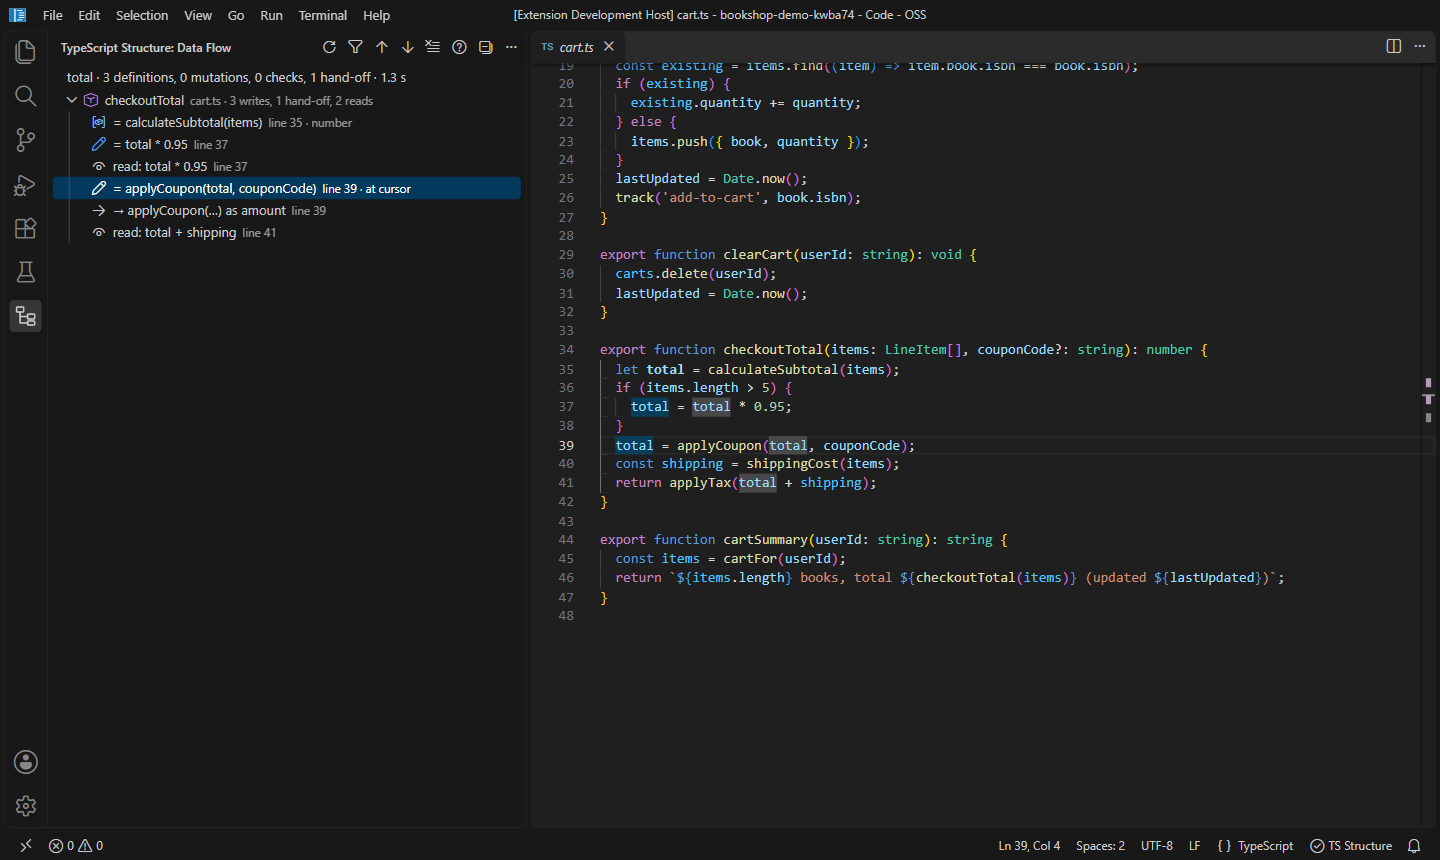
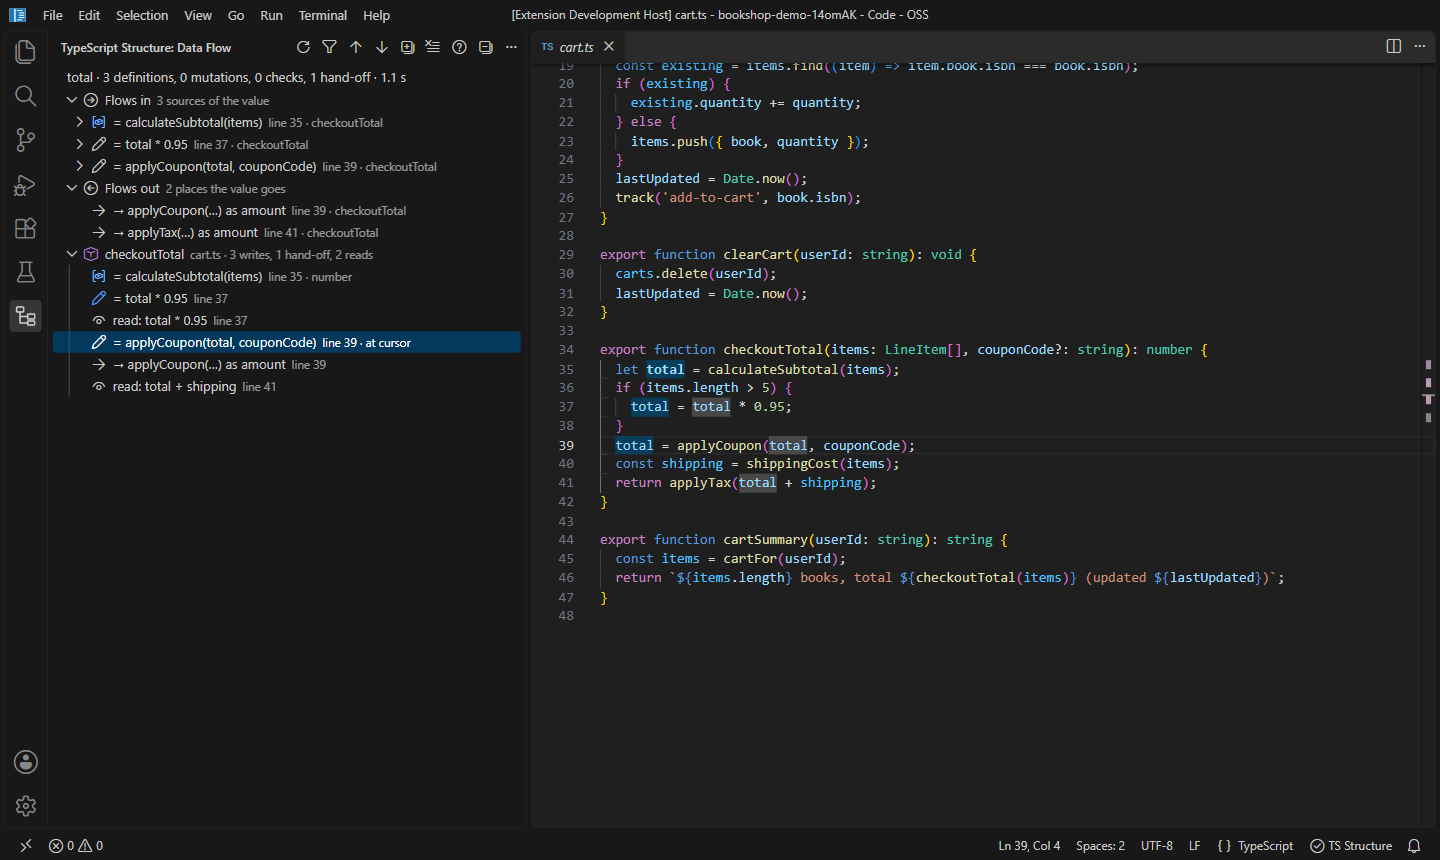
Release 0.11.0: Data Flow in and out, and 24 more improvements

diff --git a/README.md b/README.md
@@ -335,7 +335,7 @@ Every analysis can be started three ways: from the editor's right-click menu und
 
 ### Data Flow Path Explorer
 
-![Data flow of total in checkoutTotal: its definition, the discount update, the coupon, and the hand-off to applyTax](docs/images/data-flow.png)
+![Data flow of total in checkoutTotal: three values flow in (the subtotal, the discount and the coupon) and it flows out to applyCoupon and applyTax, above the step-by-step timeline](docs/images/data-flow.png)
 
 1. Put the cursor on a variable, parameter or property. In the demo, use `total` in `checkoutTotal` (`src/cart.ts`).
 2. Run **Data Flow Path Explorer**.
